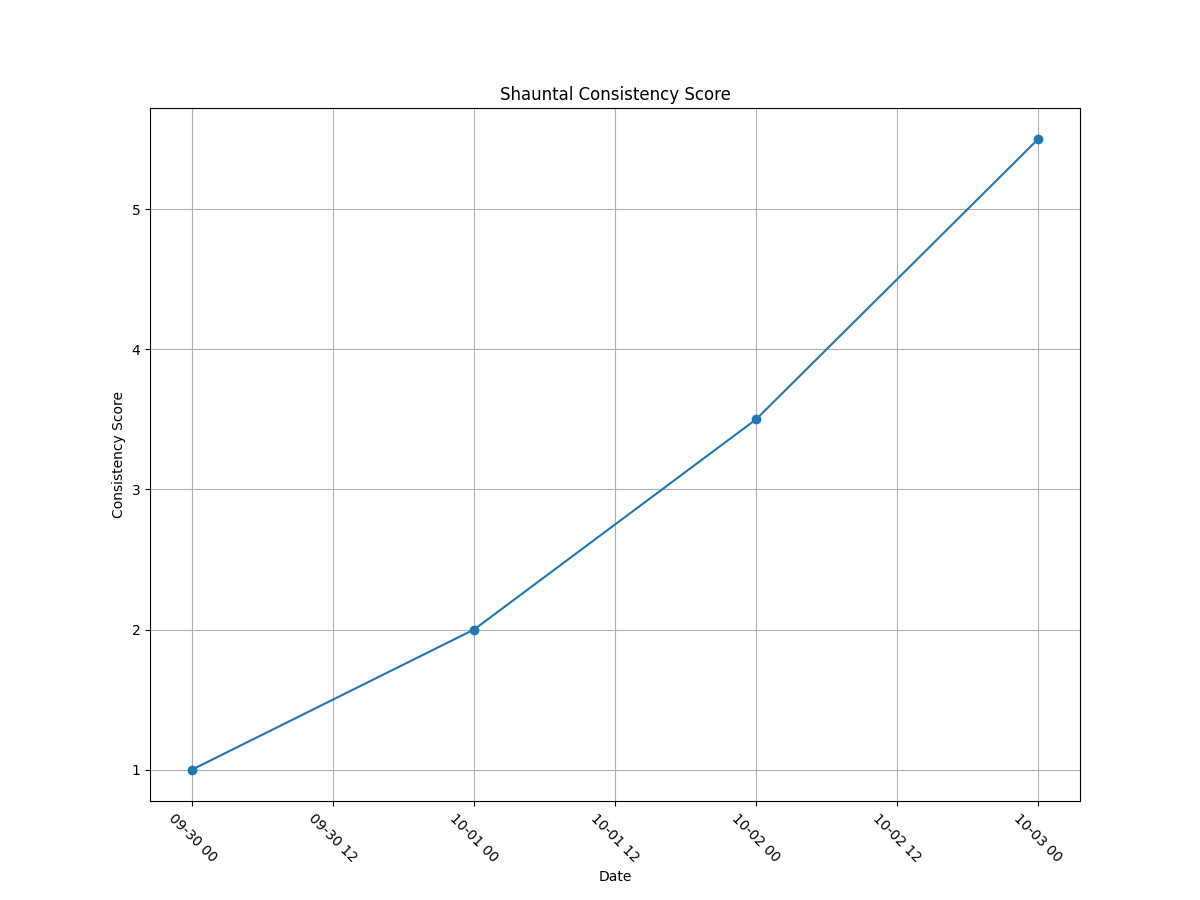
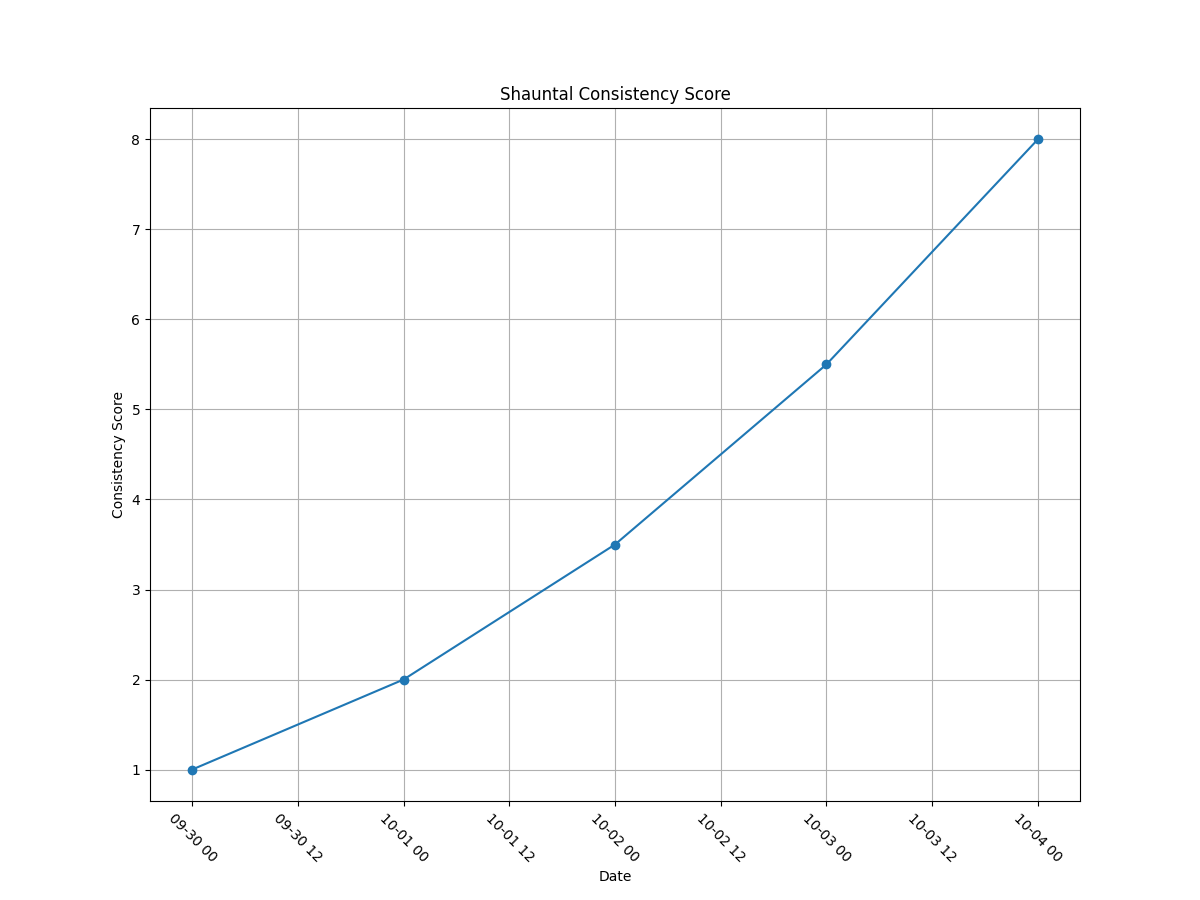
update consistency

diff --git a/consistency_data.py b/consistency_data.py
@@ -4,7 +4,8 @@ SHAUNTAL_DATA = [
     {"date": "2023-09-30", "tasks_completed": 1},
     {"date": "2023-10-01", "tasks_completed": 1},
     {"date": "2023-10-02", "tasks_completed": 1},
-    {"date": "2023-10-03", "tasks_completed": 1}
+    {"date": "2023-10-03", "tasks_completed": 1},
+    {"date": "2023-10-04", "tasks_completed": 1}
 ]
 
 SHAUNTAL_CONSISTENCY_TUPLES = [(datum['tasks_completed'], util.to_date(datum['date'])) for datum in SHAUNTAL_DATA]
